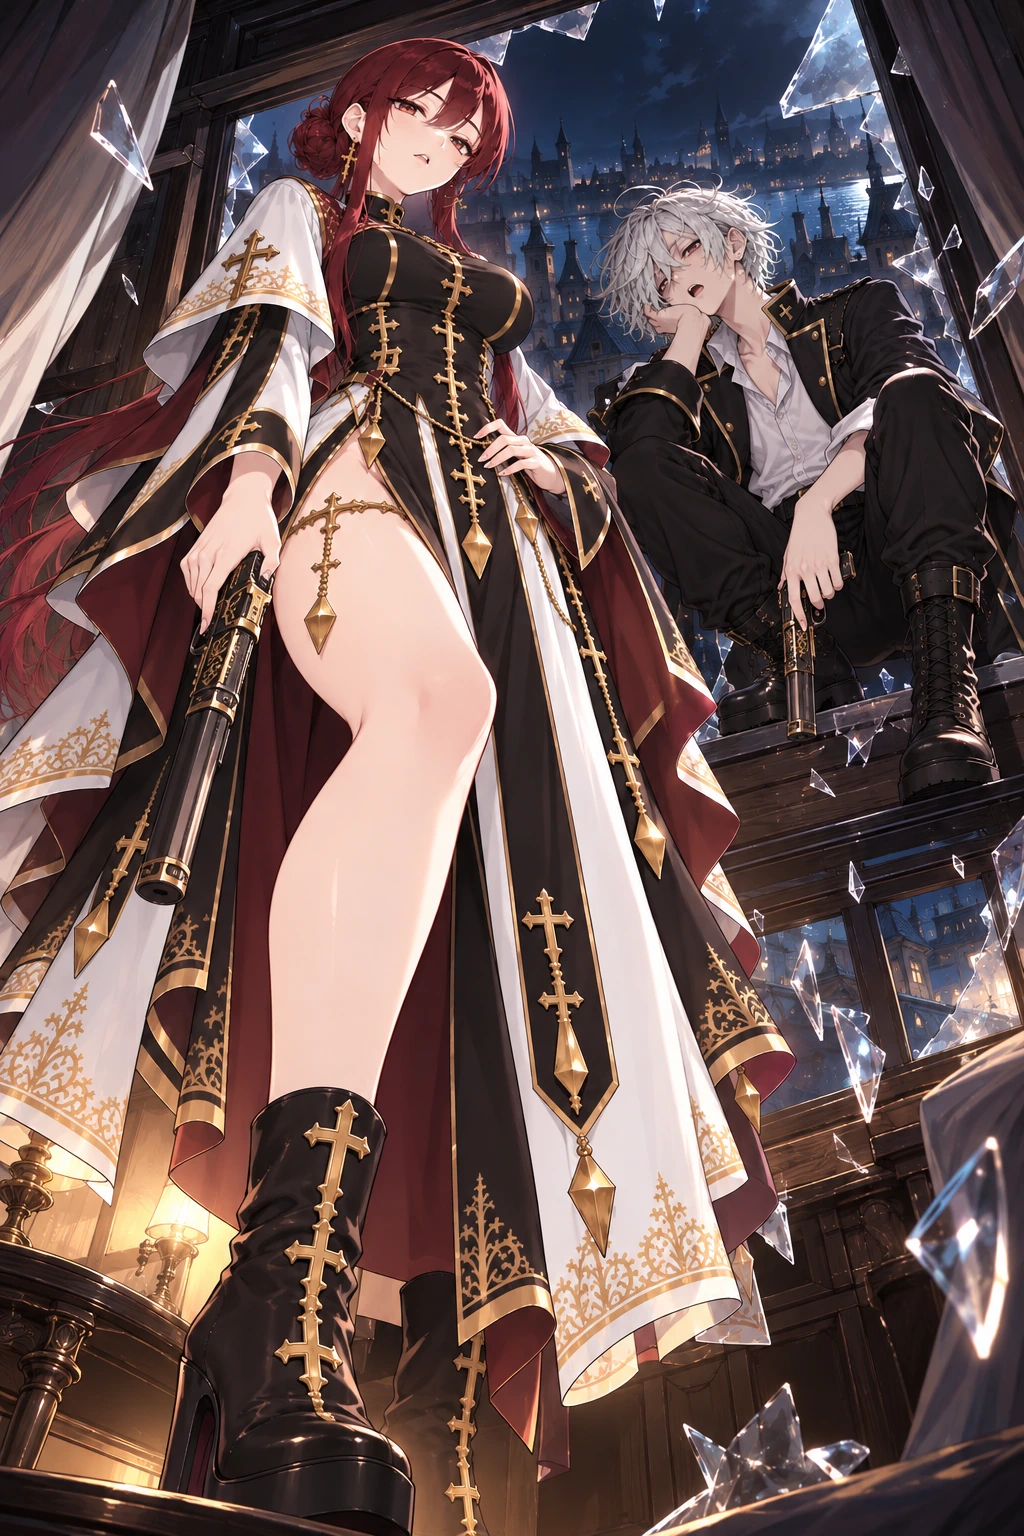
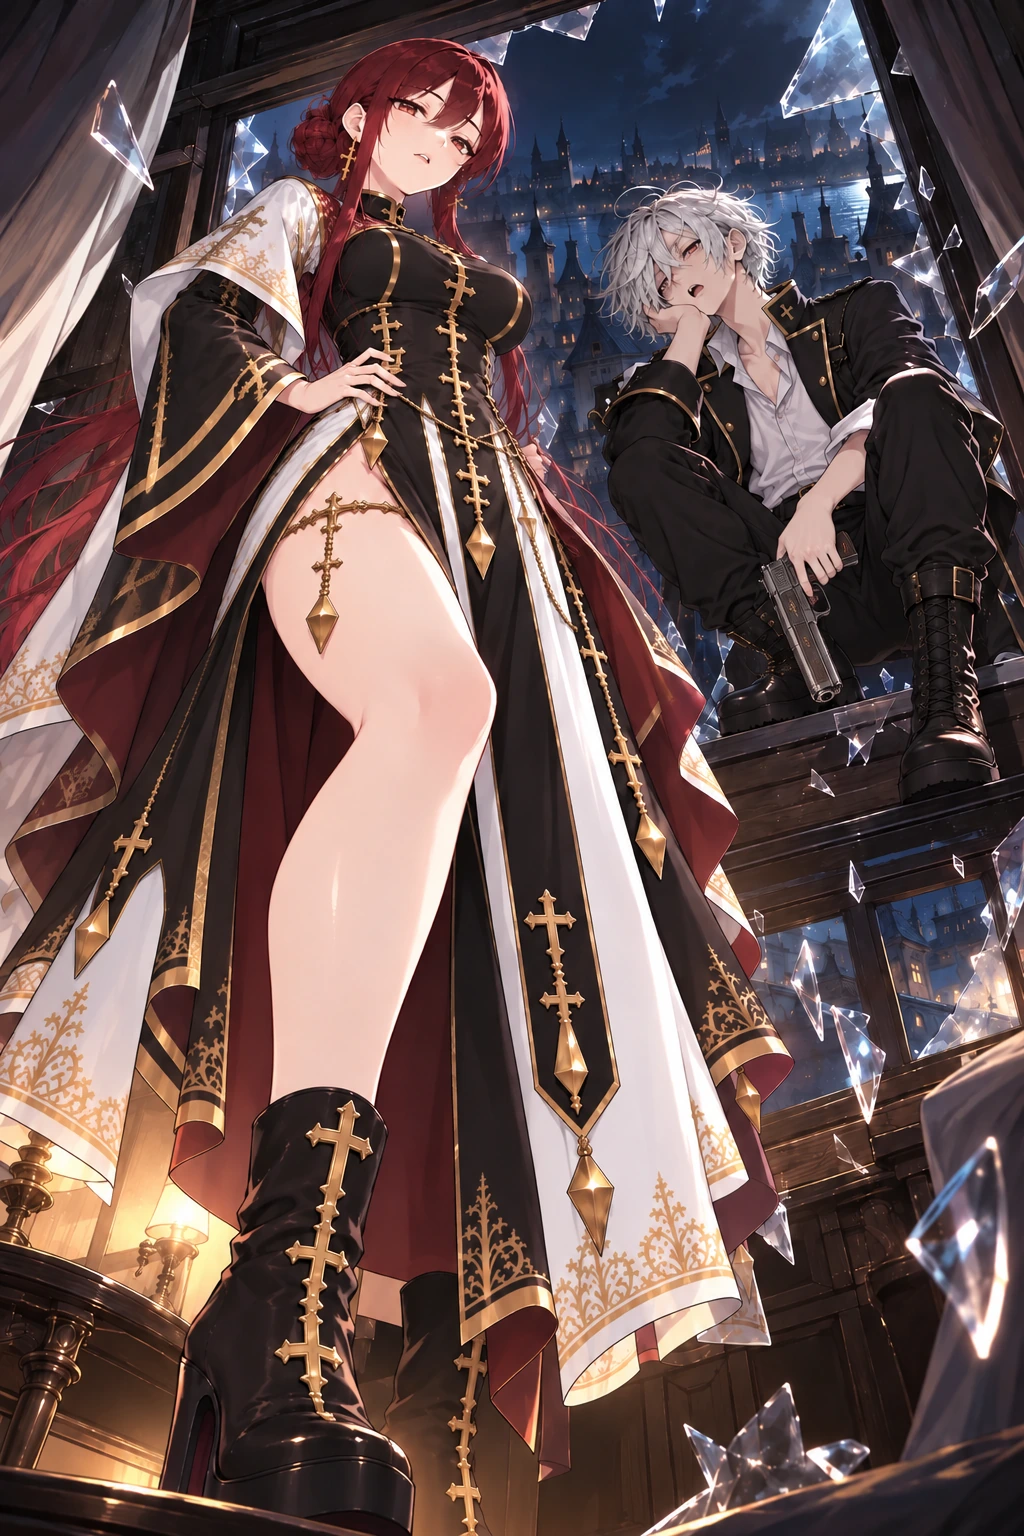
041 插圖換成 Ray 10-18 版（png 轉 webp）、ver -2616

diff --git a/index.html b/index.html
@@ -16,7 +16,7 @@
 <link rel="apple-touch-icon" href="resources/background/tivot_emblem.png?v=9220f8bb">
 <title>TIVOT</title>
 <!-- 全域鎖直向（真鎖 + 橫向擋板）；classic script，需在版面就緒前掛上 -->
-<script src="orientation.js?v=2615"></script>
+<script src="orientation.js?v=2616"></script>
 <!-- 離線包（ver -2256）：註冊 sw.js；主畫面 App 裡出現「下載離線包」鈕 -->
 <script src="offline.js"></script>
 <!-- ══ 效能探針・計數層（ver -850，Ray：「沒有辦法寫一個偵測程式進去看是什麼
@@ -65,84 +65,84 @@
 <script type="importmap">
 {
   "imports": {
-    "./audio.js": "./audio.js?v=2615",
-    "./config.js": "./config.js?v=2615",
-    "./i18n.js": "./i18n.js?v=2615",
-    "./main.js": "./main.js?v=2615",
-    "./offline.js": "./offline.js?v=2615",
-    "./orientation.js": "./orientation.js?v=2615",
-    "./state.js": "./state.js?v=2615",
-    "./sw.js": "./sw.js?v=2615",
-    "./telemetry.js": "./telemetry.js?v=2615",
-    "./modules/beatpick.js": "./modules/beatpick.js?v=2615",
-    "./modules/blink.js": "./modules/blink.js?v=2615",
-    "./modules/breath.js": "./modules/breath.js?v=2615",
-    "./modules/combat.js": "./modules/combat.js?v=2615",
-    "./modules/defense.js": "./modules/defense.js?v=2615",
-    "./modules/enemy.js": "./modules/enemy.js?v=2615",
-    "./modules/eyefx.js": "./modules/eyefx.js?v=2615",
-    "./modules/gear.js": "./modules/gear.js?v=2615",
-    "./modules/groundShadow.js": "./modules/groundShadow.js?v=2615",
-    "./modules/haptics.js": "./modules/haptics.js?v=2615",
-    "./modules/inn.js": "./modules/inn.js?v=2615",
-    "./modules/inspector.js": "./modules/inspector.js?v=2615",
-    "./modules/loot.js": "./modules/loot.js?v=2615",
-    "./modules/partner.js": "./modules/partner.js?v=2615",
-    "./modules/saint.js": "./modules/saint.js?v=2615",
-    "./modules/sakura.js": "./modules/sakura.js?v=2615",
-    "./modules/save.js": "./modules/save.js?v=2615",
-    "./modules/settings.js": "./modules/settings.js?v=2615",
-    "./modules/story.js": "./modules/story.js?v=2615",
-    "./modules/sway.js": "./modules/sway.js?v=2615",
-    "./modules/tone.js": "./modules/tone.js?v=2615",
-    "./modules/town.js": "./modules/town.js?v=2615",
-    "./modules/transition.js": "./modules/transition.js?v=2615",
-    "./modules/tutorial.js": "./modules/tutorial.js?v=2615",
-    "./modules/weapon.js": "./modules/weapon.js?v=2615",
-    "./script/bg_index.js": "./script/bg_index.js?v=2615",
-    "./script/blink.js": "./script/blink.js?v=2615",
-    "./script/clock.js": "./script/clock.js?v=2615",
-    "./script/enemies.js": "./script/enemies.js?v=2615",
-    "./script/evaluation.js": "./script/evaluation.js?v=2615",
-    "./script/eyefx.js": "./script/eyefx.js?v=2615",
-    "./script/inventory.js": "./script/inventory.js?v=2615",
-    "./script/loadout.js": "./script/loadout.js?v=2615",
-    "./script/mainScript.js": "./script/mainScript.js?v=2615",
-    "./script/progress.js": "./script/progress.js?v=2615",
-    "./script/shopcards.js": "./script/shopcards.js?v=2615",
-    "./script/shopstock.js": "./script/shopstock.js?v=2615",
-    "./script/speakers.js": "./script/speakers.js?v=2615",
-    "./script/sway.js": "./script/sway.js?v=2615",
-    "./script/town.js": "./script/town.js?v=2615",
-    "./script/weapons.js": "./script/weapons.js?v=2615",
-    "./i18n/en.js": "./i18n/en.js?v=2615",
-    "./i18n/es.js": "./i18n/es.js?v=2615",
-    "./i18n/ja.js": "./i18n/ja.js?v=2615",
-    "./i18n/scriptTr.js": "./i18n/scriptTr.js?v=2615",
-    "./i18n/zh.js": "./i18n/zh.js?v=2615",
-    "./i18n/script/es.classic.js": "./i18n/script/es.classic.js?v=2615",
-    "./i18n/script/es.js": "./i18n/script/es.js?v=2615",
-    "./i18n/ui/en.classic.js": "./i18n/ui/en.classic.js?v=2615",
-    "./i18n/ui/en.js": "./i18n/ui/en.js?v=2615",
-    "./i18n/ui/es.classic.js": "./i18n/ui/es.classic.js?v=2615",
-    "./i18n/ui/es.js": "./i18n/ui/es.js?v=2615",
-    "./i18n/ui/ja.classic.js": "./i18n/ui/ja.classic.js?v=2615",
-    "./i18n/ui/ja.js": "./i18n/ui/ja.js?v=2615",
-    "./i18n/ui/langs.classic.js": "./i18n/ui/langs.classic.js?v=2615",
-    "./i18n/ui/langs.js": "./i18n/ui/langs.js?v=2615",
-    "./i18n/ui/pack.en.js": "./i18n/ui/pack.en.js?v=2615",
-    "./i18n/ui/pack.es.js": "./i18n/ui/pack.es.js?v=2615",
-    "./i18n/ui/pack.ja.js": "./i18n/ui/pack.ja.js?v=2615",
-    "./i18n/ui/packs.js": "./i18n/ui/packs.js?v=2615"
+    "./audio.js": "./audio.js?v=2616",
+    "./config.js": "./config.js?v=2616",
+    "./i18n.js": "./i18n.js?v=2616",
+    "./main.js": "./main.js?v=2616",
+    "./offline.js": "./offline.js?v=2616",
+    "./orientation.js": "./orientation.js?v=2616",
+    "./state.js": "./state.js?v=2616",
+    "./sw.js": "./sw.js?v=2616",
+    "./telemetry.js": "./telemetry.js?v=2616",
+    "./modules/beatpick.js": "./modules/beatpick.js?v=2616",
+    "./modules/blink.js": "./modules/blink.js?v=2616",
+    "./modules/breath.js": "./modules/breath.js?v=2616",
+    "./modules/combat.js": "./modules/combat.js?v=2616",
+    "./modules/defense.js": "./modules/defense.js?v=2616",
+    "./modules/enemy.js": "./modules/enemy.js?v=2616",
+    "./modules/eyefx.js": "./modules/eyefx.js?v=2616",
+    "./modules/gear.js": "./modules/gear.js?v=2616",
+    "./modules/groundShadow.js": "./modules/groundShadow.js?v=2616",
+    "./modules/haptics.js": "./modules/haptics.js?v=2616",
+    "./modules/inn.js": "./modules/inn.js?v=2616",
+    "./modules/inspector.js": "./modules/inspector.js?v=2616",
+    "./modules/loot.js": "./modules/loot.js?v=2616",
+    "./modules/partner.js": "./modules/partner.js?v=2616",
+    "./modules/saint.js": "./modules/saint.js?v=2616",
+    "./modules/sakura.js": "./modules/sakura.js?v=2616",
+    "./modules/save.js": "./modules/save.js?v=2616",
+    "./modules/settings.js": "./modules/settings.js?v=2616",
+    "./modules/story.js": "./modules/story.js?v=2616",
+    "./modules/sway.js": "./modules/sway.js?v=2616",
+    "./modules/tone.js": "./modules/tone.js?v=2616",
+    "./modules/town.js": "./modules/town.js?v=2616",
+    "./modules/transition.js": "./modules/transition.js?v=2616",
+    "./modules/tutorial.js": "./modules/tutorial.js?v=2616",
+    "./modules/weapon.js": "./modules/weapon.js?v=2616",
+    "./script/bg_index.js": "./script/bg_index.js?v=2616",
+    "./script/blink.js": "./script/blink.js?v=2616",
+    "./script/clock.js": "./script/clock.js?v=2616",
+    "./script/enemies.js": "./script/enemies.js?v=2616",
+    "./script/evaluation.js": "./script/evaluation.js?v=2616",
+    "./script/eyefx.js": "./script/eyefx.js?v=2616",
+    "./script/inventory.js": "./script/inventory.js?v=2616",
+    "./script/loadout.js": "./script/loadout.js?v=2616",
+    "./script/mainScript.js": "./script/mainScript.js?v=2616",
+    "./script/progress.js": "./script/progress.js?v=2616",
+    "./script/shopcards.js": "./script/shopcards.js?v=2616",
+    "./script/shopstock.js": "./script/shopstock.js?v=2616",
+    "./script/speakers.js": "./script/speakers.js?v=2616",
+    "./script/sway.js": "./script/sway.js?v=2616",
+    "./script/town.js": "./script/town.js?v=2616",
+    "./script/weapons.js": "./script/weapons.js?v=2616",
+    "./i18n/en.js": "./i18n/en.js?v=2616",
+    "./i18n/es.js": "./i18n/es.js?v=2616",
+    "./i18n/ja.js": "./i18n/ja.js?v=2616",
+    "./i18n/scriptTr.js": "./i18n/scriptTr.js?v=2616",
+    "./i18n/zh.js": "./i18n/zh.js?v=2616",
+    "./i18n/script/es.classic.js": "./i18n/script/es.classic.js?v=2616",
+    "./i18n/script/es.js": "./i18n/script/es.js?v=2616",
+    "./i18n/ui/en.classic.js": "./i18n/ui/en.classic.js?v=2616",
+    "./i18n/ui/en.js": "./i18n/ui/en.js?v=2616",
+    "./i18n/ui/es.classic.js": "./i18n/ui/es.classic.js?v=2616",
+    "./i18n/ui/es.js": "./i18n/ui/es.js?v=2616",
+    "./i18n/ui/ja.classic.js": "./i18n/ui/ja.classic.js?v=2616",
+    "./i18n/ui/ja.js": "./i18n/ui/ja.js?v=2616",
+    "./i18n/ui/langs.classic.js": "./i18n/ui/langs.classic.js?v=2616",
+    "./i18n/ui/langs.js": "./i18n/ui/langs.js?v=2616",
+    "./i18n/ui/pack.en.js": "./i18n/ui/pack.en.js?v=2616",
+    "./i18n/ui/pack.es.js": "./i18n/ui/pack.es.js?v=2616",
+    "./i18n/ui/pack.ja.js": "./i18n/ui/pack.ja.js?v=2616",
+    "./i18n/ui/packs.js": "./i18n/ui/packs.js?v=2616"
   }
 }
 </script>
 <!-- BUST:END -->
-<link rel="stylesheet" href="style.css?v=2615">
+<link rel="stylesheet" href="style.css?v=2616">
   <!-- 拾得道具／道具欄／商店／懸賞榜（ver -380 抽出，飛行頁共用同一份）。
        ⚠ `data-lootsheet` 是給 `modules/loot.js` 認的：它看到已經掛過就不再掛一次。
          飛行頁沒有這一行，由那支模組自己掛上去。 -->
-  <link rel="stylesheet" href="css/lootsheet.css?v=2615" data-lootsheet="1">
+  <link rel="stylesheet" href="css/lootsheet.css?v=2616" data-lootsheet="1">
 <!-- 主畫面 App（standalone）偵測：首繪前在 <html> 蓋 .standalone，
      供 CSS 修 iOS 26 版面視窗少算頂部安全區高度（底部露黑帶）的問題 -->
 <script>
@@ -790,6 +790,6 @@
      ⚠ src 是**按下去才給**的（lazy）：不然每次開機都要多載一整個飛行頁。 -->
 <iframe id="flightFrame" title="飛行"></iframe>
 
-<script type="module" src="main.js?v=2615"></script>
+<script type="module" src="main.js?v=2616"></script>
 </body>
 </html>

diff --git a/flight/index.html b/flight/index.html
@@ -3,8 +3,8 @@
 <head>
 <meta charset="utf-8">
 <meta name="viewport" content="width=device-width,initial-scale=1,maximum-scale=1,user-scalable=no,viewport-fit=cover">
-<script src="../orientation.js?v=2615"></script>
-<script src="../i18n/ui/langs.classic.js?v=2615"></script>
+<script src="../orientation.js?v=2616"></script>
+<script src="../i18n/ui/langs.classic.js?v=2616"></script>
 <script>
 /* 介面字譯文（ver -1909）：這一頁是非模組，程式一開跑就讀字串 —— 所以譯文表要**同步**載
    （document.write，只在選了有譯文的語言時）。
@@ -19,8 +19,8 @@
     if(ls.some(function(x){ return String(x).toLowerCase().indexOf('ja')===0; }) || tz==='Asia/Tokyo') l='ja';
     else if(String(ls[0]||'').toLowerCase().indexOf('es')===0) l='es';
   }catch(e){} }
-  if(G.script.indexOf(l)>=0) document.write('<script src="../i18n/script/'+l+'.classic.js?v=2615"><\/script>');
-  if(G.ui.indexOf(l)>=0) document.write('<script src="../i18n/ui/'+l+'.classic.js?v=2615"><\/script>');
+  if(G.script.indexOf(l)>=0) document.write('<script src="../i18n/script/'+l+'.classic.js?v=2616"><\/script>');
+  if(G.ui.indexOf(l)>=0) document.write('<script src="../i18n/ui/'+l+'.classic.js?v=2616"><\/script>');
 })();
 function i18nT(s){ var t=window.__TIVOT_TR; return (t && typeof s==='string' && t[s]!=null) ? t[s] : s; }
 document.addEventListener('DOMContentLoaded', function(){
@@ -253,7 +253,7 @@ document.addEventListener('DOMContentLoaded', function(){
   /* ver -2217：門圖含楣（kerberos_gate，＝主遊戲同一張）—— 底圖往上延伸到楣的上緣（--fk-gate-top，負值，layoutFKerb 寫）。
      畫在 ::before：門的子元素（紋章／箭／鉚釘）排在它之後，自然疊在上面。 */
   #fkerbDoor::before{content:'';position:absolute;left:0;right:0;top:var(--fk-gate-top,0px);bottom:0;
-    background-image:url('../resources/vfx/kerberos_gate.webp?v=2615');
+    background-image:url('../resources/vfx/kerberos_gate.webp?v=2616');
     background-repeat:no-repeat;background-size:100% 100%;pointer-events:none;}
   #fkerb.rise #fkerbDoor{transform:translateY(calc(var(--fkerb-rise,0px) * -1));}
   /* 楣與其餘零件：全部是門的子元素＝同一剛體，門上推它們跟著上去
@@ -276,8 +276,8 @@ document.addEventListener('DOMContentLoaded', function(){
       radial-gradient(circle at 50% 22%, rgba(0,0,0,.72) 40%, rgba(0,0,0,0) 78%);
     box-shadow:inset 0 3px 7px rgba(0,0,0,.85);}
   #fkerbGear .fkg-shine{position:absolute;inset:0;mix-blend-mode:screen;opacity:.8;
-    -webkit-mask-image:url("../resources/vfx/kerberos_gear.webp?v=2615");
-    mask-image:url("../resources/vfx/kerberos_gear.webp?v=2615");
+    -webkit-mask-image:url("../resources/vfx/kerberos_gear.webp?v=2616");
+    mask-image:url("../resources/vfx/kerberos_gear.webp?v=2616");
     -webkit-mask-size:100% 100%;mask-size:100% 100%;
     -webkit-mask-repeat:no-repeat;mask-repeat:no-repeat;
     background:linear-gradient(114deg,
@@ -297,8 +297,8 @@ document.addEventListener('DOMContentLoaded', function(){
     filter:drop-shadow(0 3px 7px rgba(0,0,0,.9)) drop-shadow(0 0 2px rgba(0,0,0,.8));}
   #fkerbPend .fkp-shine{position:absolute;inset:0;pointer-events:none;
     mix-blend-mode:screen;opacity:.85;
-    -webkit-mask-image:url("../resources/vfx/kerberos_pendant.webp?v=2615");
-    mask-image:url("../resources/vfx/kerberos_pendant.webp?v=2615");
+    -webkit-mask-image:url("../resources/vfx/kerberos_pendant.webp?v=2616");
+    mask-image:url("../resources/vfx/kerberos_pendant.webp?v=2616");
     -webkit-mask-size:100% 100%;mask-size:100% 100%;
     -webkit-mask-repeat:no-repeat;mask-repeat:no-repeat;
     background:linear-gradient(114deg,
@@ -664,23 +664,23 @@ img:not([src]), img[src=""], img.img-broken{visibility:hidden !important;}
        ⚠ 要有，否則交棒那一格齒輪會憑空冒出來（同吊墜的理由）。
        ⚠ 排在 `.fk-plate` 之前 ＝ 團徽之下、槍棺之上。 -->
   <div id="fkerbGear"><i class="fkg-well"></i>
-    <img src="../resources/vfx/kerberos_gear.webp?v=2615" alt=""><i class="fkg-shine"></i></div>
+    <img src="../resources/vfx/kerberos_gear.webp?v=2616" alt=""><i class="fkg-shine"></i></div>
   <div id="fkerbGearSm"><i class="fkg-well"></i>
-    <img src="../resources/vfx/kerberos_gear.webp?v=2615" alt=""></div>
-  <img class="fk-plate" src="../resources/vfx/kerberos_plate.webp?v=2615" alt="">
-  <img class="fk-arrow n" src="../resources/vfx/kerberos_arrow.webp?v=2615" alt="">
-  <img class="fk-arrow e" src="../resources/vfx/kerberos_arrow.webp?v=2615" alt="">
-  <img class="fk-arrow s" src="../resources/vfx/kerberos_arrow.webp?v=2615" alt="">
-  <img class="fk-arrow w" src="../resources/vfx/kerberos_arrow.webp?v=2615" alt="">
-  <img class="fk-rivet r10" src="../resources/vfx/kerberos_rivet.webp?v=2615" alt="">
-  <img class="fk-rivet r2"  src="../resources/vfx/kerberos_rivet.webp?v=2615" alt="">
-  <img class="fk-rivet r4"  src="../resources/vfx/kerberos_rivet.webp?v=2615" alt="">
-  <img class="fk-rivet r8"  src="../resources/vfx/kerberos_rivet.webp?v=2615" alt="">
+    <img src="../resources/vfx/kerberos_gear.webp?v=2616" alt=""></div>
+  <img class="fk-plate" src="../resources/vfx/kerberos_plate.webp?v=2616" alt="">
+  <img class="fk-arrow n" src="../resources/vfx/kerberos_arrow.webp?v=2616" alt="">
+  <img class="fk-arrow e" src="../resources/vfx/kerberos_arrow.webp?v=2616" alt="">
+  <img class="fk-arrow s" src="../resources/vfx/kerberos_arrow.webp?v=2616" alt="">
+  <img class="fk-arrow w" src="../resources/vfx/kerberos_arrow.webp?v=2616" alt="">
+  <img class="fk-rivet r10" src="../resources/vfx/kerberos_rivet.webp?v=2616" alt="">
+  <img class="fk-rivet r2"  src="../resources/vfx/kerberos_rivet.webp?v=2616" alt="">
+  <img class="fk-rivet r4"  src="../resources/vfx/kerberos_rivet.webp?v=2616" alt="">
+  <img class="fk-rivet r8"  src="../resources/vfx/kerberos_rivet.webp?v=2616" alt="">
   <!-- 吊墜（ver -412）：與主遊戲同一套（見 index.html 的 #kerbPend 與 style.css）。
        ⚠ 這一頁**必須也有** —— 遭遇時門是在這裡推上來的，交棒之後主遊戲那一半才接手；
          只有一邊掛吊墜的話，交棒那一格會憑空多出一個東西。 -->
   <div id="fkerbPend"><div class="fkp-swing"><div class="fkp-idle">
-    <img src="../resources/vfx/kerberos_pendant.webp?v=2615" alt=""><i class="fkp-shine"></i>
+    <img src="../resources/vfx/kerberos_pendant.webp?v=2616" alt=""><i class="fkp-shine"></i>
   </div></div></div>
 </div></div>
 <div id="boot">
@@ -702,14 +702,14 @@ img:not([src]), img[src=""], img.img-broken{visibility:hidden !important;}
   <div id="bMsg"><small id="bootMsg"></small></div>
 </div>
 
-<script src="settlement.js?v=2615"></script>
+<script src="settlement.js?v=2616"></script>
 <!-- 閒聊對話的**內容**獨立成一支：方便加台詞、加觸發條件而不必碰引擎。
      ⚠ 一般 <script>（非 module）→ TALKS / talkPeriod / talkPick 是全域，
        而且會在下面這段 inline 之前執行完，所以 inline 內可以直接用。 -->
 <script>if(/[?&]world=undercity/.test(location.search)) document.write('<script src="undercity/world.js?v=29615343"><\/script>');</script>
 <script>if(/[?&]world=sanctum/.test(location.search)) document.write('<script src="sanctum/world.js?v=0b4855bb"><\/script>');</script>   <!-- 卡耶爾山谷 → 聖王廳地宮的地底大空洞（ver -2565，build_sanctum.py 產的） -->
 <script>if(!/[?&]world=/.test(location.search)) document.write('<script src="undercity/crowns.js?v=6a3ae090"><\/script>');</script>   <!-- 地表上地底樹的樹冠（ver -2412，build_uc_crowns.py 產的） -->
-<script src="talks.js?v=2615"></script>
+<script src="talks.js?v=2616"></script>
 <script>if(/[?&]drg3d=/.test(location.search)) document.write('<script src="drg3d.js?v='+Date.now()+'"><\/script>');</script>   <!-- 王座徘徊者 3D 試驗（2026-11-06）：只在網址帶 ?drg3d= 時載入 -->
 
 <script>
@@ -787,7 +787,7 @@ const COLOR_URL  = 'silvermoon_terrain.png?v=b18827be'  + TERRAIN_V;
    以前是手寫的，於是從 -911 起就沒有人記得動它 —— 而 HUD 上的版本號正是 Ray
    在手機上確認「我現在跑的是哪一版」的唯一依據（鐵律 7：一個量一個計算點；
    ver -626：版本號不動就等於沒有版本號）。**不要手改。** */
-const FLIGHT_VER = 'ver -2615';
+const FLIGHT_VER = 'ver -2616';
 const MAP_SCALE  = /[?&]world=(cave|undercity|sanctum)/.test(location.search) ? 10 : 20;   // 地底的圖加密成 1536²（ver -2369，build_cave.py 的 SUPER）：一格 10 世界單位，世界大小不變
 const INV_SCALE  = 1/MAP_SCALE;
 const PEAK_SCALE = 520;   // 高度圖 255 對應的世界高度（越大山越陡）

diff --git a/config.js b/config.js
@@ -87,7 +87,7 @@ export const HITFX = {
  *     以為是快取卡住 —— 版本號不動就等於沒有版本號）。
  *  ⚠ 它同時是**暖開機戳記的鑰匙**（main.js 的 `WARM_BOOT`）：版本一變，
  *    上一版的戳記就失效 → 下一次開機重跑完整讀取。那正是改版後該有的行為。 */
-export const VERSION = 'ver 2026.11.08-2615';
+export const VERSION = 'ver 2026.11.09-2616';
 
 /* ══ 空中怪 16 隻的戰鬥卡（ver -2268）══ 每一隻一張 `flight_<鍵>`（飛行頁 `battleIdFor` 的命名），
    內容同羽蛇那一場：船戰、艦載武器音、連射間隔 180ms。⚠ 這份鍵清單在三處：這裡／
@@ -5927,6 +5927,7 @@ export const ASSET_VER = {
   '009_soranadebute': '43cf9606',
   '039_rennatears': '56d1e454',
   '040_torprotectrenna': '1e260310',
+  '041_cecilienemo': '02bae284',
   '050_nemoentrance': '68635723',
   '051_nemobarrage_a': '712a6fda',
   '051_nemobarrage_b': 'd32e7733',

diff --git a/modules/story.js b/modules/story.js
@@ -3588,7 +3588,7 @@ const KERB_DIR='resources/vfx/';
    cache-buster（§5：檔名沒變、內容變了，瀏覽器照樣拿舊的那一份，而症狀只是
    「看起來沒變」）。版本號由 `tools/bust.py` 同步，路徑只由 `kerbUrl()` 組（鐵律 8）——
    飛行頁那一半是另一個 document，各有一份，改一邊要改另一邊。 */
-const KERB_V='?v=2615';
+const KERB_V='?v=2616';
 const kerbUrl=n=>KERB_DIR+n+'.webp'+KERB_V;
 /* 門的圖（ver -2218）：**每一道門都要先載完**（劇情讀取頁 `preloadStory`、城鎮那道 `loadScene`）——
    Ray：「讀圖的時候先跑槍棺出來才讀楣」「往上推的時候楣會消失」：合成後的 `kerberos_gate`（門＋楣）

diff --git a/HANDOFF.md b/HANDOFF.md
@@ -71,7 +71,7 @@
 
 ## 五、還沒收乾淨的（這一次推版刻意沒動的）
 
-- ⚠ **`resources/illustration/041_cecilienemo.webp` 在工作區被刪掉、旁邊多一張同名 `.png`（10-18、2.3 MB、沒進過版控）**。不是我刪的、回收區也沒有紀錄 —— 遊戲照樣顯示得出來（候選鏈 `.webp → .png`）。**沒有 commit 這個刪除**，等 Ray 說是不是他換的圖；若是，要轉 webp、原 png 進 `_originals`。
+- ✔ **041_cecilienemo**：11-09 Ray 確認是他換的 png（10-18 版）→ 已轉 webp（q92，ASSET_VER 02bae284，ver -2616）；原 png 存成 `resources/_originals/illustration/041_cecilienemo_20261018.png`（`_originals` 裡 10-09 的舊同名 png 沒動）。
 - ⚠ **`tools/anim/` 的三支比 `ComfyUI-master/tivot_wan/` 舊**：`tivot_wan.py`（缺 `TIVOT_STEPS`／`TIVOT_MOBIUS`）、`make_player.py`、`player.html`（tivot_wan 是 11-08 晚上的版本）。這一次同步被權限擋下沒做；版控裡的是 11-08 下午那一版。下一個動畫 session 開工照 memory `sync-anim-tools-first` 先同步（舊版先回收），順便把 `custom_nodes/tivot_latent_loop.py` 收進 `tools/anim/`。
 - script_lint 的 13 個既有錯誤（charm 大寫檔名）。
 
